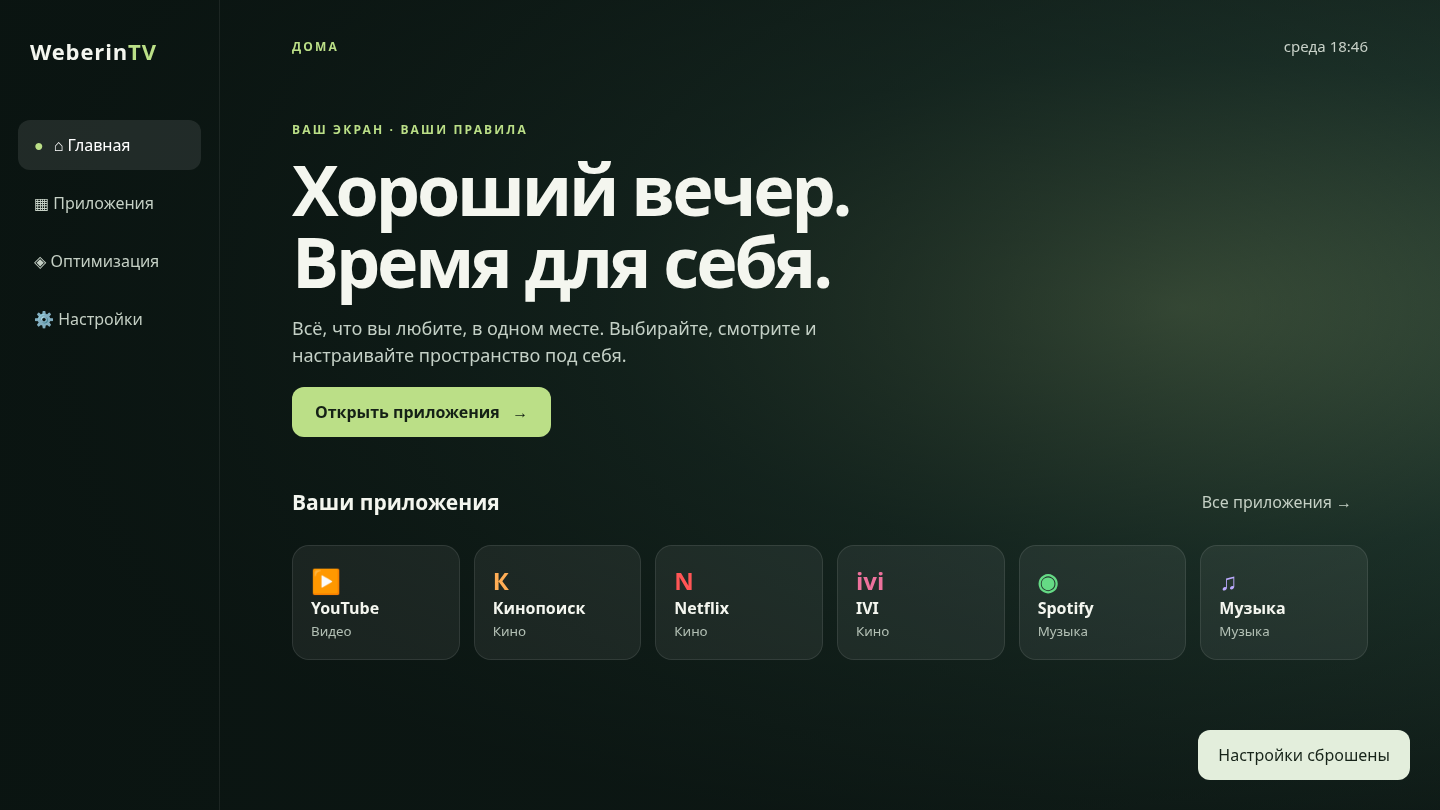
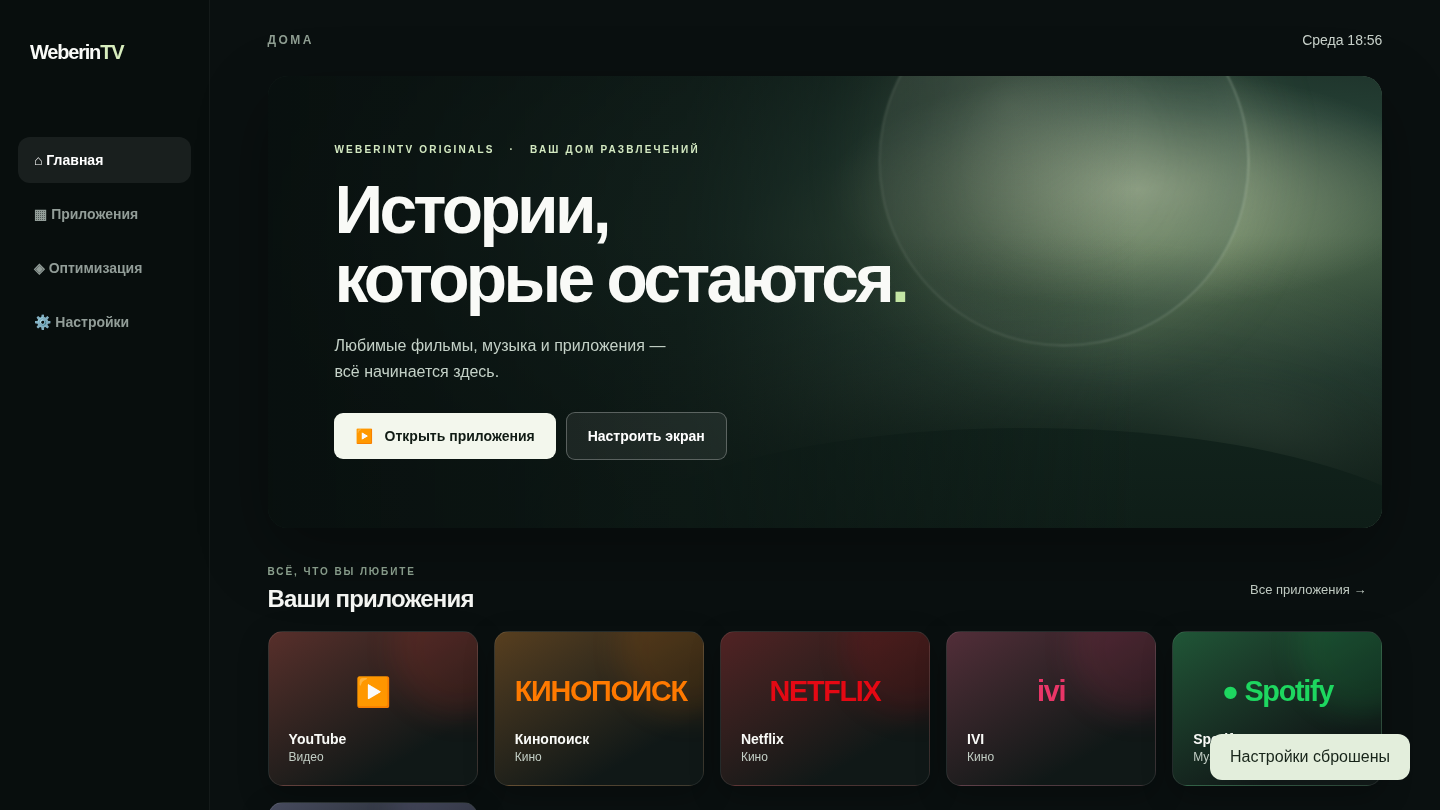
Обновить визуальный стиль прототипа WeberinTV

diff --git a/prototype/style.css b/prototype/style.css
@@ -1,1 +1,4 @@
 *{box-sizing:border-box} :root{--accent:#bbdf87;--tile:1;--speed:.22s} body{margin:0;background:#101815;color:#f4f6ef;font:16px system-ui,sans-serif} button,select,input{font:inherit} button{color:inherit;cursor:pointer} #app{min-height:100vh;background:linear-gradient(90deg,rgba(10,20,17,.97),rgba(10,20,17,.62) 63%,rgba(10,20,17,.35)),var(--wall);background-size:cover;background-position:center;transition:background var(--speed)} .shell{min-height:100vh;display:flex}.sidebar{width:220px;padding:32px 18px;border-right:1px solid #ffffff12;display:flex;flex-direction:column;gap:8px}.brand{font-weight:800;letter-spacing:.04em;font-size:22px;margin:4px 12px 46px}.brand span{color:var(--accent)} .navbtn,.control,.back{background:transparent;border:0;border-radius:12px;padding:14px 16px;text-align:left;color:#c5d0c5}.navbtn.active{background:#ffffff18;color:white}.navbtn.active:before{content:'●';color:var(--accent);margin-right:10px}.content{flex:1;min-width:0;padding:36px 5vw 50px}.topbar{display:flex;justify-content:space-between;align-items:center;color:#c8d1c8}.topnav{display:flex;gap:5px;margin-top:20px}.topnav .navbtn{padding:10px 15px}.clock{font-size:15px}.hero{padding:8vh 0 5vh;max-width:720px}.eyebrow{color:var(--accent);letter-spacing:.18em;font-size:12px;font-weight:700;text-transform:uppercase}.hero h1{font-size:clamp(38px,5vw,70px);line-height:1.03;letter-spacing:-.045em;margin:15px 0}.hero p{color:#c4d0c6;font-size:18px;line-height:1.5;max-width:560px}.primary{background:var(--accent);color:#152116;border:0;border-radius:12px;padding:14px 23px;font-weight:750}.sectionhead{display:flex;align-items:center;justify-content:space-between;margin:0 0 18px}.sectionhead h2{font-size:21px;margin:0}.muted{color:#aebbb0;font-size:14px}.tiles{display:grid;grid-template-columns:repeat(auto-fill,minmax(calc(150px * var(--tile)),1fr));gap:14px}.tile{border:1px solid #ffffff18;background:#ffffff10;min-height:calc(112px * var(--tile));border-radius:17px;padding:18px;text-align:left;display:flex;flex-direction:column;justify-content:space-between;transition:transform var(--speed),background var(--speed)}.tile:hover{background:#ffffff20}.tile .icon{font-weight:900;font-size:24px;color:var(--icon)}.tile small{color:#b3c0b5}.tile strong{display:block;font-size:16px}.panel{max-width:960px}.panel h1{font-size:40px;margin:40px 0 8px}.panel>p{color:#b9c7bb}.settings-grid{display:grid;grid-template-columns:1fr 1fr;gap:12px;margin-top:30px}.setting{background:#ffffff0c;border:1px solid #ffffff12;border-radius:16px;padding:17px;display:flex;align-items:center;justify-content:space-between;gap:15px}.setting strong{display:block}.setting small{color:#aebbb0}.setting select,.setting input{background:#202f27;color:white;border:1px solid #ffffff30;border-radius:9px;padding:9px;max-width:160px}.setting input[type=color]{width:50px;height:40px;padding:3px}.setting button{background:#ffffff16;border:0;border-radius:9px;padding:10px}.notice{background:#d9ad4b20;border:1px solid #d9ad4b66;border-radius:16px;padding:18px;line-height:1.5;margin:25px 0}.status{background:#ffffff0c;border-radius:16px;padding:20px;margin:12px 0}.status button{float:right;background:#ffffff18;border:0;border-radius:10px;padding:10px}.toast{position:fixed;bottom:30px;right:30px;background:#e3eedc;color:#172419;padding:14px 20px;border-radius:12px;z-index:5} :focus-visible{outline:3px solid var(--accent)!important;outline-offset:4px;transform:scale(1.025)}.minimal .sidebar{width:78px}.minimal .sidebar .label,.minimal .brand{font-size:0}.minimal .sidebar .brand:after{content:'W';font-size:24px;color:var(--accent)}.minimal .navbtn{font-size:0}.minimal .navbtn:first-letter{font-size:20px}.top .sidebar{display:none}.theme-light{filter:none}.theme-light .content,.theme-light .sidebar{background:#e8efe6dd;color:#172419}.theme-light .muted,.theme-light .hero p,.theme-light .panel>p,.theme-light .clock{color:#435547}.theme-light .tile,.theme-light .setting,.theme-light .status{background:#203d2016;color:#172419}.theme-light .navbtn{color:#253d2c}.theme-light .tile small{color:#435547}@media(max-width:700px){.sidebar{width:70px}.sidebar .label,.brand{font-size:0}.brand:after{content:'W';font-size:24px}.navbtn{font-size:0}.navbtn:first-letter{font-size:20px}.content{padding:24px}.settings-grid{grid-template-columns:1fr}.hero{padding:5vh 0}.topnav{overflow:auto}}
+/* Кинематографичный телевизионный экран */
+:root{--accent:#e8f4d9}body{background:#080b0d;font-family:Inter,"Segoe UI",Arial,sans-serif}#app{background:#0a1010;color:#f9faf7}.shell{max-width:1920px;margin:auto}.sidebar{width:210px;background:#090e0df0;border-right:1px solid #ffffff0d;padding:36px 18px}.brand{font-size:20px;letter-spacing:-.06em;margin:5px 12px 65px}.brand span{color:#d7edbd}.navbtn{font-weight:600;font-size:14px;color:#929d98;padding:15px 16px}.navbtn.active{background:#ffffff12;color:#fff}.navbtn.active:before{content:none}.content{padding:32px 4vw 54px}.topbar{position:relative;z-index:2;font-size:12px}.topbar .eyebrow{letter-spacing:.2em;color:#8e9d91}.clock{color:#c7d0c9;font-size:14px;text-transform:capitalize}.hero{position:relative;overflow:hidden;max-width:none;min-height:420px;margin:28px 0 38px;padding:0;border-radius:20px;background:linear-gradient(105deg,#101c1a 8%,#203b31 55%,#5c7761 100%);box-shadow:0 24px 70px #0005}.hero:after{content:'';position:absolute;inset:0;background:linear-gradient(90deg,#080f0eec 0%,#0c1714bd 38%,transparent 78%),linear-gradient(0deg,#0a1511a8,transparent 65%);pointer-events:none}.hero-copy{position:relative;z-index:1;padding:68px 6%;max-width:720px}.hero .eyebrow{font-size:10px;letter-spacing:.22em;color:#d3e9c1}.hero h1{font-weight:700;font-size:clamp(42px,4.7vw,70px);letter-spacing:-.055em;line-height:1.02;margin:20px 0}.hero h1 span{color:#c3e5a4}.hero p{font-size:16px;color:#c4d1c7;line-height:1.6;margin-bottom:28px}.primary,.hero-secondary{padding:15px 21px;border-radius:9px;font-size:14px;font-weight:700}.primary{background:#f3f7ed;color:#101b14}.hero-secondary{border:1px solid #ffffff45;color:white;background:#ffffff12;margin-left:10px}.hero-art{position:absolute;inset:0;overflow:hidden;background:radial-gradient(ellipse at 78% 25%,#d3dbbc80,transparent 25%),radial-gradient(ellipse at 70% 100%,#9bb791,transparent 46%),linear-gradient(135deg,#132f27,#708773)}.orb{position:absolute;border-radius:50%;filter:blur(1px)}.orb-one{width:370px;height:370px;right:12%;top:-100px;border:1px solid #e8f6dd70;box-shadow:0 0 80px #cfe8b126,inset 0 0 80px #d6e8c52b;background:radial-gradient(circle at 35% 35%,#dbe8c344,#55705d22 60%,#1d3c3177)}.orb-two{width:230px;height:230px;right:2%;bottom:-120px;background:#dbeaca38;filter:blur(30px)}.horizon{position:absolute;width:80%;height:290px;right:-8%;bottom:-190px;border-radius:50%;background:#172d24;box-shadow:0 -12px 80px #172d24}.sectionhead{margin-bottom:18px}.sectionhead h2{font-size:24px;letter-spacing:-.035em}.section-kicker{font-size:10px;letter-spacing:.19em;color:#94aa97;font-weight:700;margin-bottom:8px}.sectionhead .control{font-size:13px;color:#c7d2c9}.tiles{grid-template-columns:repeat(auto-fill,minmax(calc(190px * var(--tile)),1fr));gap:16px}.tile{position:relative;overflow:hidden;min-height:calc(155px * var(--tile));padding:20px;border:1px solid #ffffff16;border-radius:15px;background:linear-gradient(150deg,color-mix(in srgb,var(--icon) 25%,#202b29),#101817 75%);box-shadow:0 10px 30px #0004}.tile:after{content:'';position:absolute;width:140px;height:140px;border-radius:50%;right:-55px;top:-55px;background:var(--icon);opacity:.12;filter:blur(15px)}.tile .icon{font-size:clamp(18px,2vw,29px);letter-spacing:-.045em;font-weight:900;color:var(--icon);margin:auto;align-self:center}.tile strong{font-size:14px}.tile small{font-size:12px;color:#c3cec5}.tile:hover{transform:translateY(-4px);background:linear-gradient(150deg,color-mix(in srgb,var(--icon) 35%,#26352e),#15201c)}:focus-visible{outline:3px solid #f1f8e8!important;outline-offset:4px;transform:scale(1.045);box-shadow:0 10px 40px #0008}.panel h1{letter-spacing:-.05em}.setting{background:#ffffff0a}.top .content{padding-top:30px}.top .hero{margin-top:18px}@media(max-width:700px){.hero{min-height:390px}.hero-copy{padding:50px 25px}.hero h1{font-size:39px}.hero-secondary{margin:10px 0 0}.tiles{grid-template-columns:repeat(2,minmax(0,1fr))}}
+.hero-art{background:radial-gradient(ellipse at 78% 25%,#d3dbbc80,transparent 25%),radial-gradient(ellipse at 70% 100%,#9bb79166,transparent 46%),var(--wall)}

diff --git a/prototype/app.js b/prototype/app.js
@@ -1,14 +1,14 @@
 const defaults={nav:'sidebar',wall:'forest',theme:'dark',accent:'#bbdf87',size:'1',animation:'normal',profile:'balanced',layout:'grid',clock:true};
 let s;try{s={...defaults,...JSON.parse(localStorage.getItem('weberintv-settings')||'{}')}}catch{s={...defaults}}let page='home',category='Все',toastTimer;
 const walls={forest:'radial-gradient(ellipse at 82% 38%,#5b7554 0%,#253f34 35%,#101c18 75%)',ocean:'radial-gradient(ellipse at 80% 30%,#537f88 0%,#24434b 40%,#101a20 80%)',sunset:'radial-gradient(ellipse at 80% 30%,#9d7156 0%,#513c3a 42%,#1b191d 80%)',night:'radial-gradient(ellipse at 80% 30%,#494b70 0%,#252a43 40%,#111520 80%)'};
-const apps=[['YouTube','Видео','▶','#ff6262'],['Кинопоиск','Кино','К','#ffad55'],['Netflix','Кино','N','#ff5555'],['IVI','Кино','ivi','#ed719c'],['Spotify','Музыка','◉','#65da85'],['Музыка','Музыка','♫','#bdabff'],['Галерея','Инструменты','▧','#ffc973'],['Настройки ТВ','Инструменты','⚙','#9ed3e0']];
+const apps=[['YouTube','Видео','▶','#ff3b30'],['Кинопоиск','Кино','КИНОПОИСК','#ff7a00'],['Netflix','Кино','NETFLIX','#e50914'],['IVI','Кино','ivi','#e93668'],['Spotify','Музыка','● Spotify','#1ed760'],['Музыка','Музыка','♫','#bdabff'],['Галерея','Инструменты','▧','#ffc973'],['Настройки ТВ','Инструменты','⚙','#9ed3e0']];
 const nav=[['home','⌂','Главная'],['apps','▦','Приложения'],['optimization','◈','Оптимизация'],['settings','⚙','Настройки']];
 function save(){localStorage.setItem('weberintv-settings',JSON.stringify(s));render()}
 function navButtons(){return nav.map(([id,icon,name])=>`<button class="navbtn ${page===id?'active':''}" data-page="${id}">${icon} <span class="label">${name}</span></button>`).join('')}
 function tiles(list){return `<div class="tiles" style="${s.layout==='rows'?'grid-template-columns:repeat(auto-fill,minmax(220px,1fr))':''}">${list.map(a=>`<button class="tile" data-app="${a[0]}" style="--icon:${a[3]}"><span class="icon">${a[2]}</span><span><strong>${a[0]}</strong><small>${a[1]}</small></span></button>`).join('')}</div>`}
 function setting(label,desc,key,options){return `<div class="setting"><div><strong>${label}</strong><small>${desc}</small></div><select data-setting="${key}" aria-label="${label}">${options.map(([v,n])=>`<option value="${v}" ${String(s[key])===v?'selected':''}>${n}</option>`).join('')}</select></div>`}
 function render(){let root=document.querySelector('#app');root.className=`${s.nav==='top'?'top':s.nav==='minimal'?'minimal':''} theme-${s.theme}`;root.style.cssText=`--wall:${walls[s.wall]||walls.forest};--accent:${s.accent};--tile:${s.size};--speed:${s.animation==='off'?'0s':s.animation==='reduced'?'.08s':'.22s'}`;
-let main='';if(page==='home')main=`<div class="hero"><div class="eyebrow">ВАШ ЭКРАН · ВАШИ ПРАВИЛА</div><h1>Хороший вечер.<br>Время для себя.</h1><p>Всё, что вы любите, в одном месте. Выбирайте, смотрите и настраивайте пространство под себя.</p><button class="primary" data-page="apps">Открыть приложения &nbsp; →</button></div><div class="sectionhead"><h2>Ваши приложения</h2><button class="control" data-page="apps">Все приложения →</button></div>${tiles(apps.slice(0,6))}`;
+let main='';if(page==='home')main=`<div class="hero"><div class="hero-art" aria-hidden="true"><div class="orb orb-one"></div><div class="orb orb-two"></div><div class="horizon"></div></div><div class="hero-copy"><div class="eyebrow">WEBERINTV ORIGINALS &nbsp; · &nbsp; ВАШ ДОМ РАЗВЛЕЧЕНИЙ</div><h1>Истории,<br>которые остаются<span>.</span></h1><p>Любимые фильмы, музыка и приложения —<br>всё начинается здесь.</p><button class="primary" data-page="apps">▶ &nbsp; Открыть приложения</button><button class="hero-secondary" data-page="settings">Настроить экран</button></div></div><div class="sectionhead"><div><div class="section-kicker">ВСЁ, ЧТО ВЫ ЛЮБИТЕ</div><h2>Ваши приложения</h2></div><button class="control" data-page="apps">Все приложения →</button></div>${tiles(apps.slice(0,6))}`;
 if(page==='apps')main=`<div class="panel"><h1>Приложения</h1><p>Всё нужное — рядом.</p><div class="topnav">${['Все','Кино','Видео','Музыка','Инструменты'].map(c=>`<button class="navbtn ${category===c?'active':''}" data-category="${c}">${c}</button>`).join('')}</div><br>${tiles(apps.filter(a=>category==='Все'||a[1]===category))}</div>`;
 if(page==='settings')main=`<div class="panel"><h1>Настройки</h1><p>Сделайте WeberinTV своим. Изменения сохраняются в этом браузере.</p><div class="settings-grid">${setting('Навигация','Расположение меню','nav',[['sidebar','Слева'],['top','Сверху'],['minimal','Компактная']])}${setting('Расположение','Представление приложений','layout',[['grid','Сетка'],['rows','Широкие плитки']])}${setting('Обои','Цветовая атмосфера','wall',[['forest','Лес'],['ocean','Океан'],['sunset','Закат'],['night','Ночь']])}${setting('Тема','Оформление интерфейса','theme',[['dark','Тёмная'],['light','Светлая']])}<div class="setting"><div><strong>Акцентный цвет</strong><small>Цвет фокуса и кнопок</small></div><input type="color" data-setting="accent" value="${s.accent}" aria-label="Акцентный цвет"></div>${setting('Размер плиток','Плотность сетки','size',[['0.85','Маленькие'],['1','Средние'],['1.2','Большие']])}${setting('Анимация','Движение интерфейса','animation',[['normal','Обычная'],['reduced','Короткая'],['off','Выключена']])}${setting('Производительность','Набор визуальных настроек','profile',[['performance','Быстродействие'],['balanced','Баланс'],['visual','Визуальный']])}${setting('Часы','Время и дата на экране','clock',[['true','Показывать'],['false','Скрыть']])}<div class="setting"><div><strong>Сброс настроек</strong><small>Вернуть исходное оформление</small></div><button data-reset>Сбросить</button></div></div></div>`;
 if(page==='optimization')main=`<div class="panel"><h1>Оптимизация системы</h1><p>Инструменты для осознанного управления телевизором.</p><div class="notice"><strong>Демонстрация в браузере</strong><br>Действия здесь ничего не меняют на телевизоре. Настоящие системные операции потребуют отдельного инструмента, проверки устройства и вашего согласия.</div>${[['◉','Состояние устройства','В реальном приложении здесь появится информация об устройстве.'],['◇','Проверка приложений','Потенциальные изменения будут показаны до выполнения.'],['↺','Восстановление','План возврата зависит от модели и выполненных операций.']].map(x=>`<div class="status"><button data-demo="${x[1]}">Подробнее</button><strong>${x[0]} &nbsp; ${x[1]}</strong><p class="muted">${x[2]}</p></div>`).join('')}</div>`;
